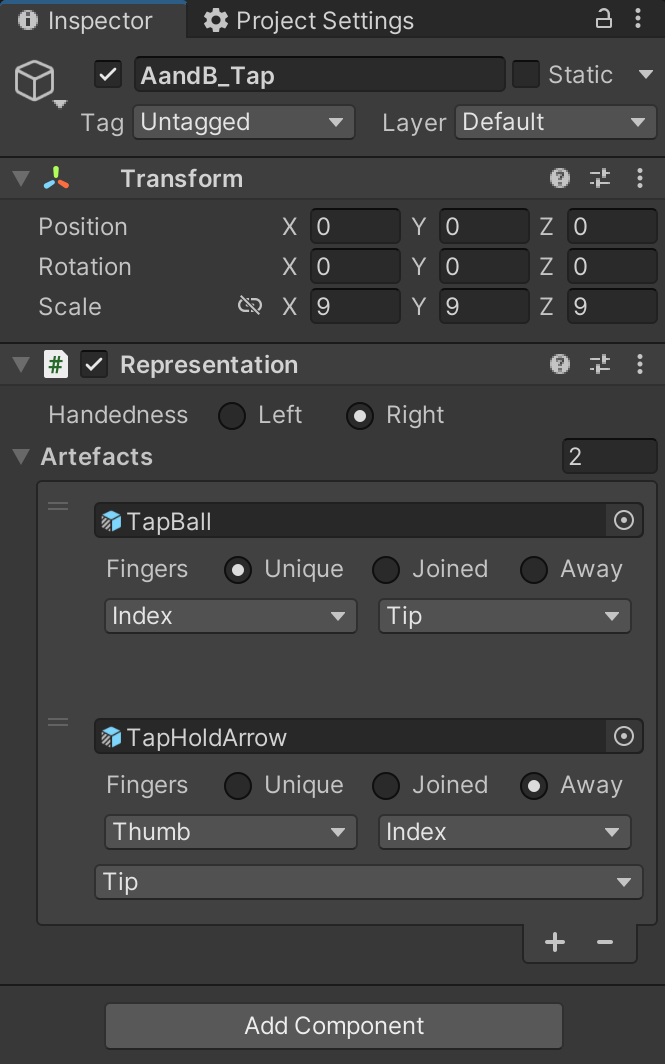
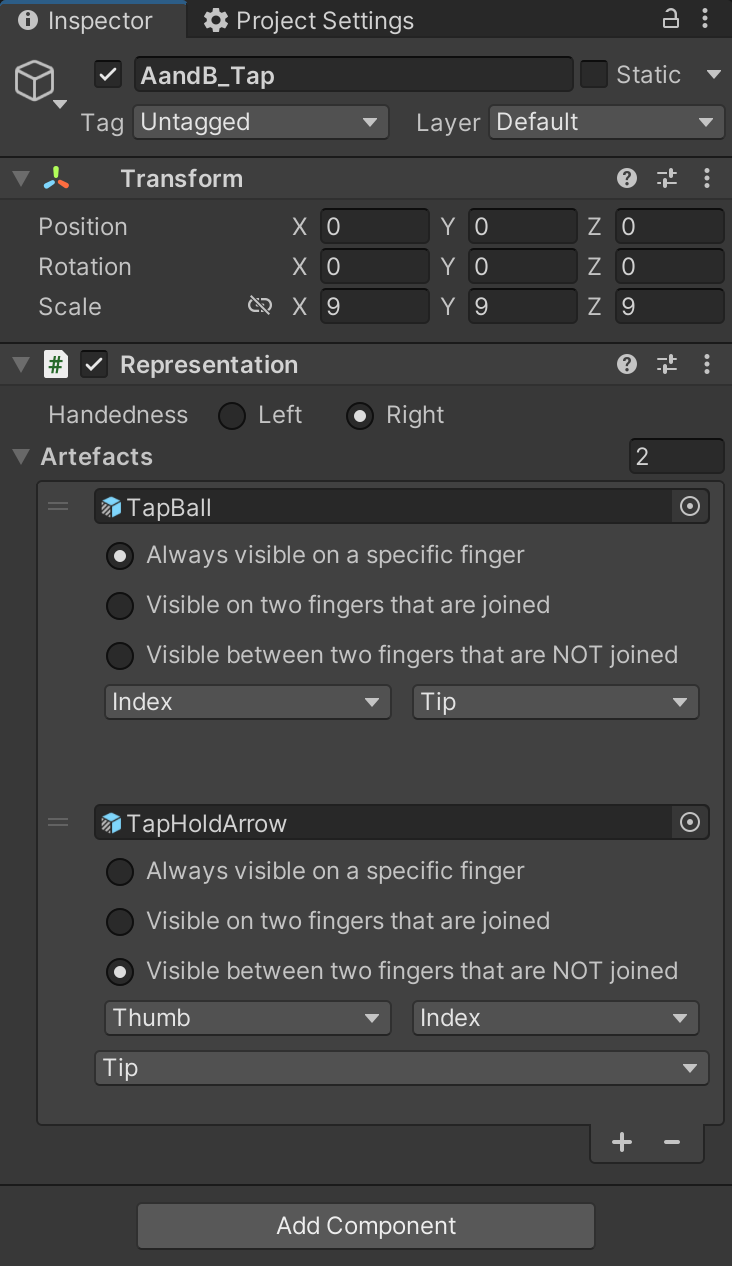
behavior labels changed

diff --git a/Scripts/PropertyDrawer/PlaceholderPropertyDrawer.cs b/Scripts/PropertyDrawer/PlaceholderPropertyDrawer.cs
@@ -32,7 +32,7 @@ public class PlaceholderPropertyDrawer : ConditionnalPropertyDrawer
         fingersStatusProp = property.FindPropertyRelative ("fingersStatus");
         uniqueLocationProp = property.FindPropertyRelative ("uniqueLocation");
         joinedLocationProp = property.FindPropertyRelative ("joinedLocation");
-        AwayLocationProp = property.FindPropertyRelative ("AwayLocation");
+        AwayLocationProp = property.FindPropertyRelative ("awayLocation");
 
         selectedUnique = (fingersStatusProp.enumValueIndex == (int) FingersStatus.Unique);
         selectedJoined = (fingersStatusProp.enumValueIndex == (int) FingersStatus.Joined);
@@ -45,22 +45,25 @@ public class PlaceholderPropertyDrawer : ConditionnalPropertyDrawer
         } else {
             tools.initialize();
             tools.beginHorizontal();
-            tools.insertLabel("Fingers");
             if (tools.insertRadio(selectedUnique && !selectedJoined)) {
                 selectedUnique = true;
                 selectedJoined = false;
             };
-            tools.insertLabel("Unique");
+            tools.insertLabel("Always visible on a specific finger", 300);
+            tools.endHorizontal();
+            tools.beginHorizontal();
             if (tools.insertRadio(!selectedUnique && selectedJoined)) {
                 selectedUnique = false;
                 selectedJoined = true;
             };
-            tools.insertLabel("Joined");
+            tools.insertLabel("Visible on two fingers that are joined", 300);
+            tools.endHorizontal();
+            tools.beginHorizontal();
             if (tools.insertRadio(!selectedUnique && !selectedJoined)) {
                 selectedUnique = false;
                 selectedJoined = false;
             };
-            tools.insertLabel("Away");
+            tools.insertLabel("Visible between two fingers that are NOT joined", 300);
             tools.endHorizontal();
             
             if (selectedUnique) {

diff --git a/Scripts/Placeholder.cs b/Scripts/Placeholder.cs
@@ -23,7 +23,7 @@ namespace Microgestures
         public FingersStatus fingersStatus;
         public UniqueLocation uniqueLocation;
         public JoinedLocation joinedLocation;
-        public AwayLocation AwayLocation;
+        public AwayLocation awayLocation;
 
         public Placeholder()
         {
@@ -32,12 +32,12 @@ namespace Microgestures
 
         public Placeholder(UniqueLocation location) { this.uniqueLocation = location; }
         public Placeholder(JoinedLocation location) { this.joinedLocation = location; }
-        public Placeholder(AwayLocation location) { this.AwayLocation = location; }
+        public Placeholder(AwayLocation location) { this.awayLocation = location; }
 
         private FingersStatus getFingerStatus() { return fingersStatus; }
         private UniqueLocation getUniqueLocation() { return uniqueLocation; }
         private JoinedLocation getJoinedLocation() { return joinedLocation; }
-        private AwayLocation getAwayLocation() { return AwayLocation; }
+        private AwayLocation getAwayLocation() { return awayLocation; }
 
         public Location getLocation() { 
             switch (this.getFingerStatus()) {
@@ -46,7 +46,7 @@ namespace Microgestures
                 case FingersStatus.Joined:
                     return joinedLocation;
                 default :
-                    return AwayLocation;
+                    return awayLocation;
             }
         }
 

diff --git a/Scripts/PropertyDrawer/ArtefactPropertyDrawer.cs b/Scripts/PropertyDrawer/ArtefactPropertyDrawer.cs
@@ -35,7 +35,6 @@ public class ArtefactPropertyDrawer : ConditionnalPropertyDrawer
         } else {
             initializePropertyHeight(gameObjectProp, placeholderProp);
             tools.initialize();
-            tools.insertNone(0.2f);
             tools.insertField(gameObjectProp);
             // beginHorizontal(maxHeightInProps(gameObjectProp, behaviorProp));
             // tools.beginHorizontal(tools.maxHeightInProps(gameObjectProp));
@@ -44,7 +43,6 @@ public class ArtefactPropertyDrawer : ConditionnalPropertyDrawer
             // insertLabel("Behavior", 0.200f);
             // insertField(behaviorProp, 0.325f);
             // tools.endHorizontal();
-
             tools.insertField(placeholderProp);
         }
     }

diff --git a/Scripts/PropertyDrawer/LocationPropertyDrawer.cs b/Scripts/PropertyDrawer/LocationPropertyDrawer.cs
@@ -34,7 +34,7 @@ abstract public class LocationPropertyDrawer : ConditionnalPropertyDrawer
     protected bool fourZoneActor;
 
     protected void initializeLocationPropertyHeight() {
-        propertyHeight = 50;
+        propertyHeight = 100;
     }
 }
 

diff --git a/README.md b/README.md
@@ -1,5 +1,11 @@
 <p align="center">
-<h1 align="center">µRepXR</h1>
+
+
+<div style="display: table; margin: 0 auto">
+    <h1 style="display: table-cell; vertical-align: middle;padding-right: 20px">µRepXR</h1>
+    <span style="display: table-cell; vertical-align: middle;padding-right: 5px"><img src="./Documentation/Images/microRep_Full.png" alt="Project Settings screenshot" height="75" width="75"/></span>
+    <span style="display: table-cell; vertical-align: middle;"><img src="./Documentation/Images/unity_logo.png" alt="Project Settings screenshot" height="80" width="80"/></span>
+</div>
 <h3 align="center">A Unity Package to Create Representation of Microgestures in Augmented Reality</h3>
 </p>
 <p align="center">
@@ -129,7 +135,7 @@ In Unity, select your Blender file (see `µRepXR > PrefabResources > BlenderMode
 
 In Unity, create an empty object. Then, go to the `µRepXR > Scripts` folder in the `Project` tab and drag and drop the `Representation.cs` script in the `Inspector` of your new empty object. As you can see, there is a new GUI with two elements: a handedness and a list of `Artefacts`.
 
-The handedness allows you to create a representation for the left OR the right hand. It is as simple as that. The list of `Artefacts` allows you to pick your previously created visual cue prefabs and associate them to a placeholder. Click on the `+` button and you will see a `None (Game Object)` box in which you can drag and drop a visual cue prefab. Then, you can decide if this visual cue should appear on a `Unique` finger, on `Joined` fingers or between two far `Away` fingers. Depending on the chosen configuration, the ChoiceBox widgets will slightly change to precise the exact location, e.g. the `Tip`of the `Index` finger. The behavior of the representation will also change. For a `Unique` finger, the representation will never disappear but for `Joined` fingers it will only be visible when the relevant fingers are joined. For the `Away` option, it will only be visible when the relevant fingers are far apart. 
+The handedness allows you to create a representation for the left OR the right hand. It is as simple as that. The list of `Artefacts` allows you to pick your previously created visual cue prefabs and associate them to a placeholder. Click on the `+` button and you will see a `None (Game Object)` box in which you can drag and drop a visual cue prefab. Then, you can decide if this visual cue should be `Always visible on a specific finger`, `Visible on two fingers that are joined` or `Visible between two fingers that are NOT joined`. Depending on the chosen configuration, the ChoiceBox widgets will slightly change to precise the exact location, e.g. the `Tip`of the `Index` finger.
 
 <div style="text-align: center;">
     <img src="./Documentation/Images/unity_representation.png" alt="Inspector representation screenshot" width="350"/>
